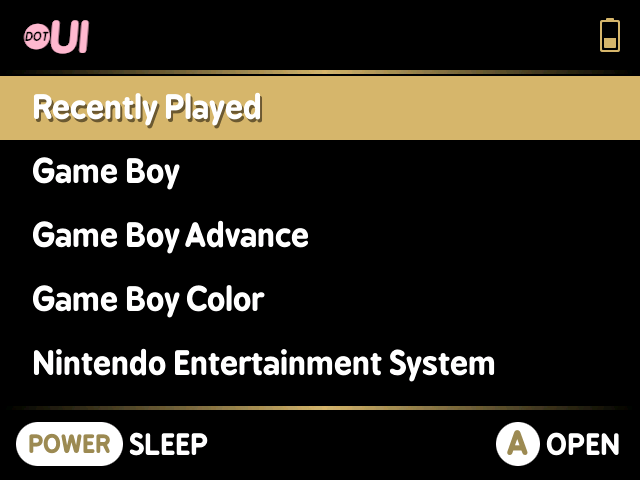
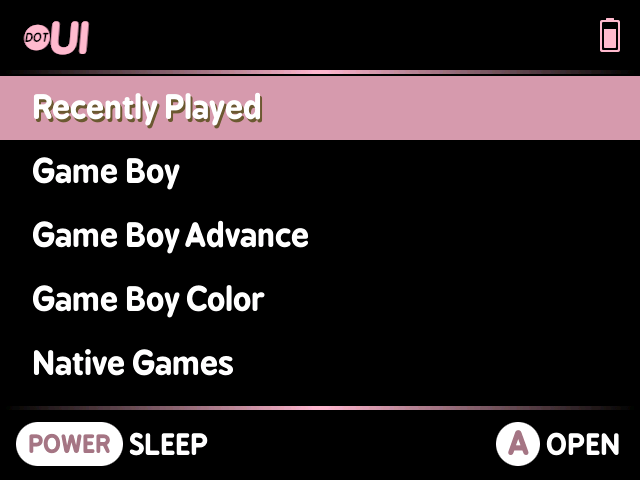
color change

diff --git a/src/common/common.c b/src/common/common.c
@@ -405,7 +405,7 @@ static SDL_Surface* settings_brightness;
 static SDL_Surface* settings_volume;
 static SDL_Surface* settings_mute;
 
-static SDL_Color gold = {GOLD_TRIAD};
+static SDL_Color pink = {PINK_TRIAD};
 static SDL_Color bronze = {BRONZE_TRIAD};
 static SDL_Color white = {WHITE_TRIAD};
 static SDL_Color gray = {GRAY_TRIAD};
@@ -558,7 +558,7 @@ void GFX_blitMenu(SDL_Surface* surface, char* name, char* path, char* unique, in
 		trimSortingMeta(&display_name);
 
 		// bar
-		SDL_FillRect(surface, &(SDL_Rect){0,Screen.main.list.y+(row*Screen.main.list.row_height),Screen.width,Screen.main.list.row_height}, SDL_MapRGB(surface->format, GOLD_TRIAD));
+		SDL_FillRect(surface, &(SDL_Rect){0,Screen.main.list.y+(row*Screen.main.list.row_height),Screen.width,Screen.main.list.row_height}, SDL_MapRGB(surface->format, PINK_TRIAD));
 		
 		// shadow
 		text = TTF_RenderUTF8_Blended(font_l, display_name, shadow50);
@@ -624,7 +624,7 @@ int GFX_scrollMenu(SDL_Surface* surface, char* name, char* path, char* unique, i
 	}
 	
 	// bar
-	SDL_FillRect(surface, &(SDL_Rect){0,Screen.main.list.y+(row*Screen.main.list.row_height),Screen.width,Screen.main.list.row_height}, SDL_MapRGB(surface->format, GOLD_TRIAD));
+	SDL_FillRect(surface, &(SDL_Rect){0,Screen.main.list.y+(row*Screen.main.list.row_height),Screen.width,Screen.main.list.row_height}, SDL_MapRGB(surface->format, PINK_TRIAD));
 	
 	// shadow
 	SDL_BlitSurface(text, &(SDL_Rect){scroll_ox,0,max_width,text->h}, surface, &(SDL_Rect){Screen.main.list.ox+Screen.font.shadow.ox,Screen.main.list.y+(row*Screen.main.list.row_height)+Screen.main.list.oy+Screen.font.shadow.oy});
@@ -686,7 +686,7 @@ void GFX_blitBodyCopy(SDL_Surface* surface, char* str, int ox, int oy, int width
 		
 		
 		if (len) {
-			text = TTF_RenderUTF8_Blended(font_l, line, gold);
+			text = TTF_RenderUTF8_Blended(font_l, line, pink);
 			int x = ox;
 			x += (width - text->w) / 2;
 			SDL_BlitSurface(text, NULL, surface, &(SDL_Rect){x,y});
@@ -706,7 +706,7 @@ int GFX_blitText(SDL_Surface* surface, char* str, int size, int x, int y, int wi
 	
 	TTF_Font* font = size==0?font_s:(size==1?font_m:font_l);
 	int oy = size=0?Screen.font.small_oy:(size==1?Screen.font.medium_oy:Screen.font.large_oy);
-	text = TTF_RenderUTF8_Blended(font, str, has_shadow?shadow_color:(color==-1?disabled:(color?gold:white)));
+	text = TTF_RenderUTF8_Blended(font, str, has_shadow?shadow_color:(color==-1?disabled:(color?pink:white)));
 	int w = text->w;
 	
 	if (width>0) x += (width - w) / 2;
@@ -715,7 +715,7 @@ int GFX_blitText(SDL_Surface* surface, char* str, int size, int x, int y, int wi
 	if (has_shadow) {
 		SDL_BlitSurface(text, NULL, surface, &(SDL_Rect){x+Screen.font.shadow.ox,y+Screen.font.shadow.oy}); 
 		SDL_FreeSurface(text);
-		text = TTF_RenderUTF8_Blended(font, str, color==-1?gray:(color?gold:white));
+		text = TTF_RenderUTF8_Blended(font, str, color==-1?gray:(color?pink:white));
 	}
 	
 	// SDL_FillRect(surface, &(SDL_Rect){x,y,text->w,text->h}, white_rgb); // TODO: tmp
@@ -727,7 +727,7 @@ int GFX_blitText(SDL_Surface* surface, char* str, int size, int x, int y, int wi
 
 SDL_Surface* GFX_getText(char* text, int size, int color) {
 	TTF_Font* font = size==0?font_s:(size==1?font_m:font_l);
-	return TTF_RenderUTF8_Blended(font, text, color?gold:white);
+	return TTF_RenderUTF8_Blended(font, text, color?pink:white);
 }
 
 void GFX_blitBattery(SDL_Surface* surface, int x, int y) {

diff --git a/src/libmmenu/mmenu.c b/src/libmmenu/mmenu.c
@@ -431,9 +431,9 @@ MenuReturnStatus ShowMenu(char* rom_path, char* save_path_template, SDL_Surface*
 	
 	Input_reset();
 	
-	int gold_rgb = SDL_MapRGB(screen->format, GOLD_TRIAD);
+	int pink_rgb = SDL_MapRGB(screen->format, PINK_TRIAD);
 	int gray_rgb = SDL_MapRGB(screen->format, DISABLED_TRIAD);
-	SDL_Color gold = (SDL_Color){GOLD_TRIAD};
+	SDL_Color pink = (SDL_Color){PINK_TRIAD};
 	SDL_Color white = (SDL_Color){WHITE_TRIAD};
 	
 	int status = kStatusContinue;
@@ -662,7 +662,7 @@ MenuReturnStatus ShowMenu(char* rom_path, char* save_path_template, SDL_Surface*
 				int disabled = !state_support && (i==kItemSave || i==kItemLoad);
 				int color = disabled ? -1 : 1; // gray or gold
 				if (i==selected) {
-					int bg_color_rgb = disabled ? gray_rgb : gold_rgb;
+					int bg_color_rgb = disabled ? gray_rgb : pink_rgb;
 					SDL_FillRect(screen, &(SDL_Rect){Screen.menu.window.x,Screen.menu.list.y+(i*Screen.menu.list.line_height)-((Screen.menu.list.row_height-Screen.menu.list.line_height)/2),Screen.menu.window.width,Screen.menu.list.row_height}, bg_color_rgb);
 					if (!disabled) color = 0; // white
 				}

diff --git a/src/say/main.c b/src/say/main.c
@@ -8,7 +8,7 @@
 #include <sys/mman.h>
 #include <unistd.h>
 
-#define GOLD_TRIAD 0xd2,0xb4,0x6c
+#define PINK_TRIAD 0xd4,0x98,0xab
 #define kTextBoxMaxRows 8
 #define kTextLineLength 256
 #define kLineHeight 48
@@ -64,7 +64,7 @@ int main(int argc , char* argv[]) {
 	
 	int width = 640;
 	int height = 480;
-	SDL_Color gold = {GOLD_TRIAD};
+	SDL_Color pink = {PINK_TRIAD};
 	SDL_Surface* text;
 	char* rows[kTextBoxMaxRows];
 	int row_count = 0;
@@ -94,7 +94,7 @@ int main(int argc , char* argv[]) {
 		}
 		
 		if (len) {
-			text = TTF_RenderUTF8_Blended(font, line, gold);
+			text = TTF_RenderUTF8_Blended(font, line, pink);
 			int x = (width - text->w) / 2;
 			blit(fb0_map,width,height,text->pixels,text->w,text->h,x,y);
 			SDL_FreeSurface(text);

diff --git a/src/common/common.h b/src/common/common.h
@@ -36,8 +36,8 @@
 #define MINUI_R3 		SDLK_UNDEFINED
 #define MINUI_POWER 	SDLK_POWER
 
-#define GOLD_TRIAD 0xd2,0xb4,0x6c
-#define BRONZE_TRIAD 0x9f,0x89,0x52
+#define PINK_TRIAD 0xd4,0x98,0xab
+#define BRONZE_TRIAD 0xa1,0x74,0x82
 #define WHITE_TRIAD 0xff,0xff,0xff
 #define GRAY_TRIAD 0x66,0x66,0x66
 #define SHADOW25_TRIAD 0xa1,0x87,0x47
